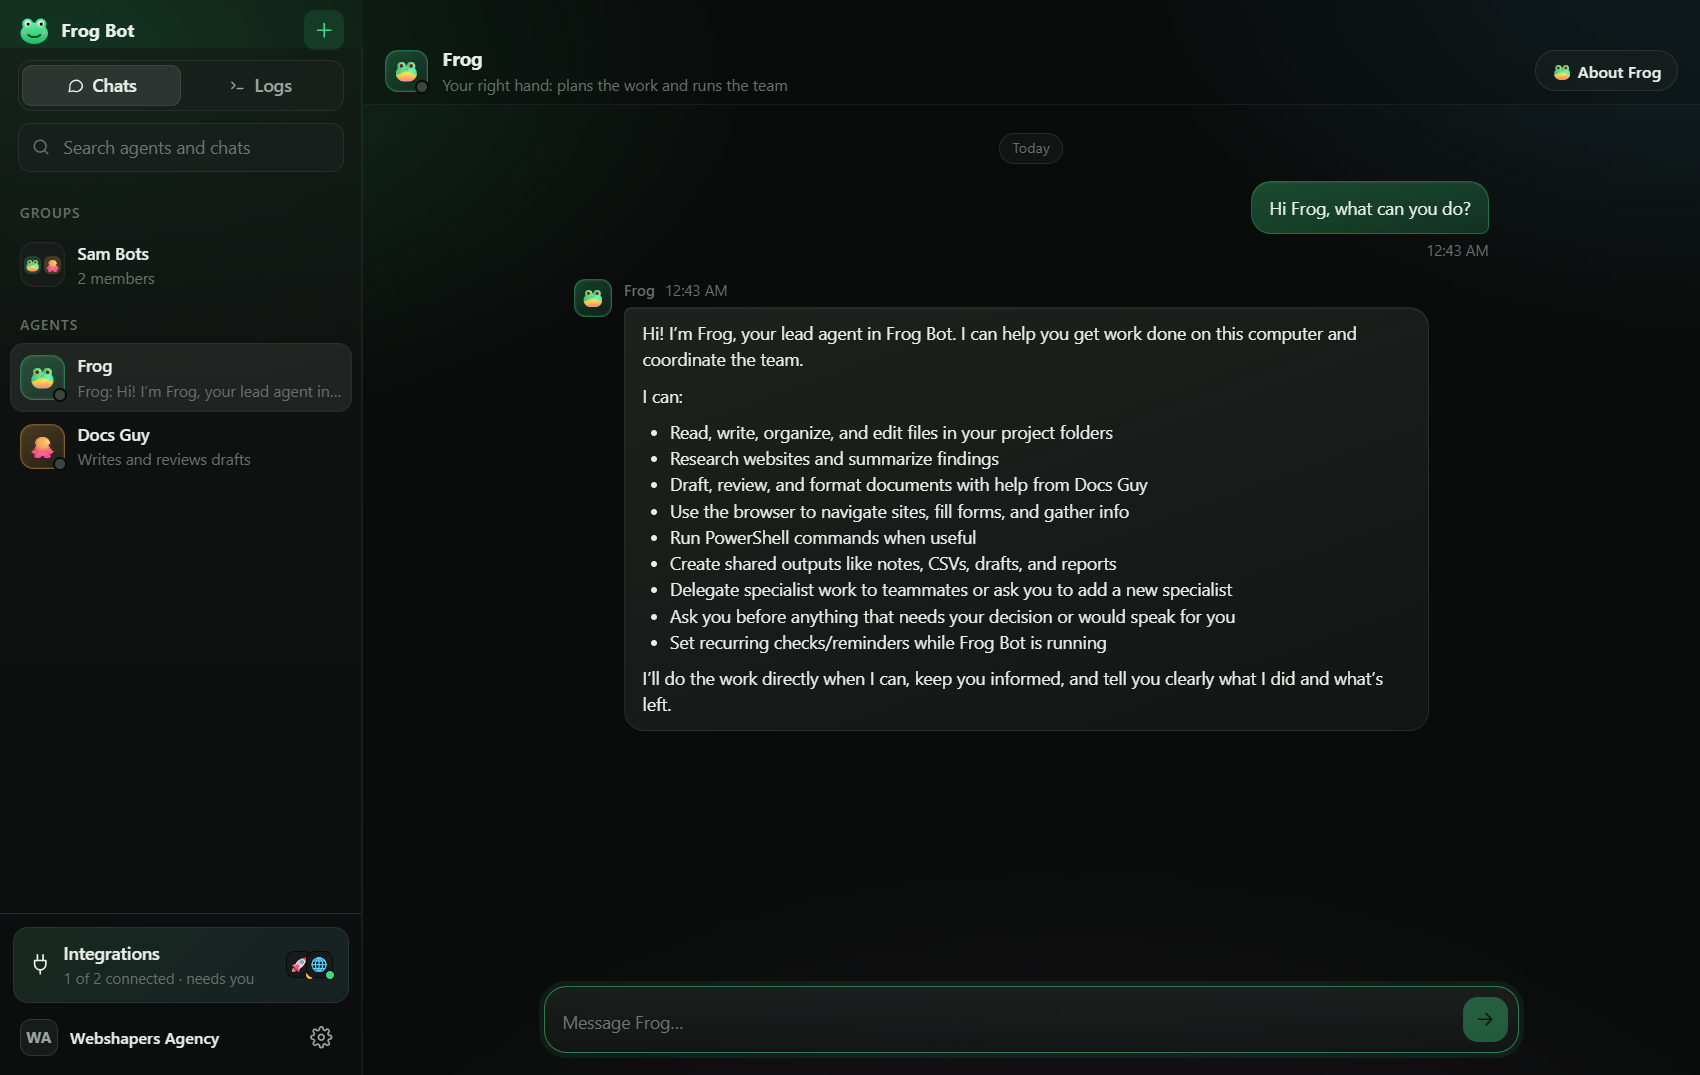
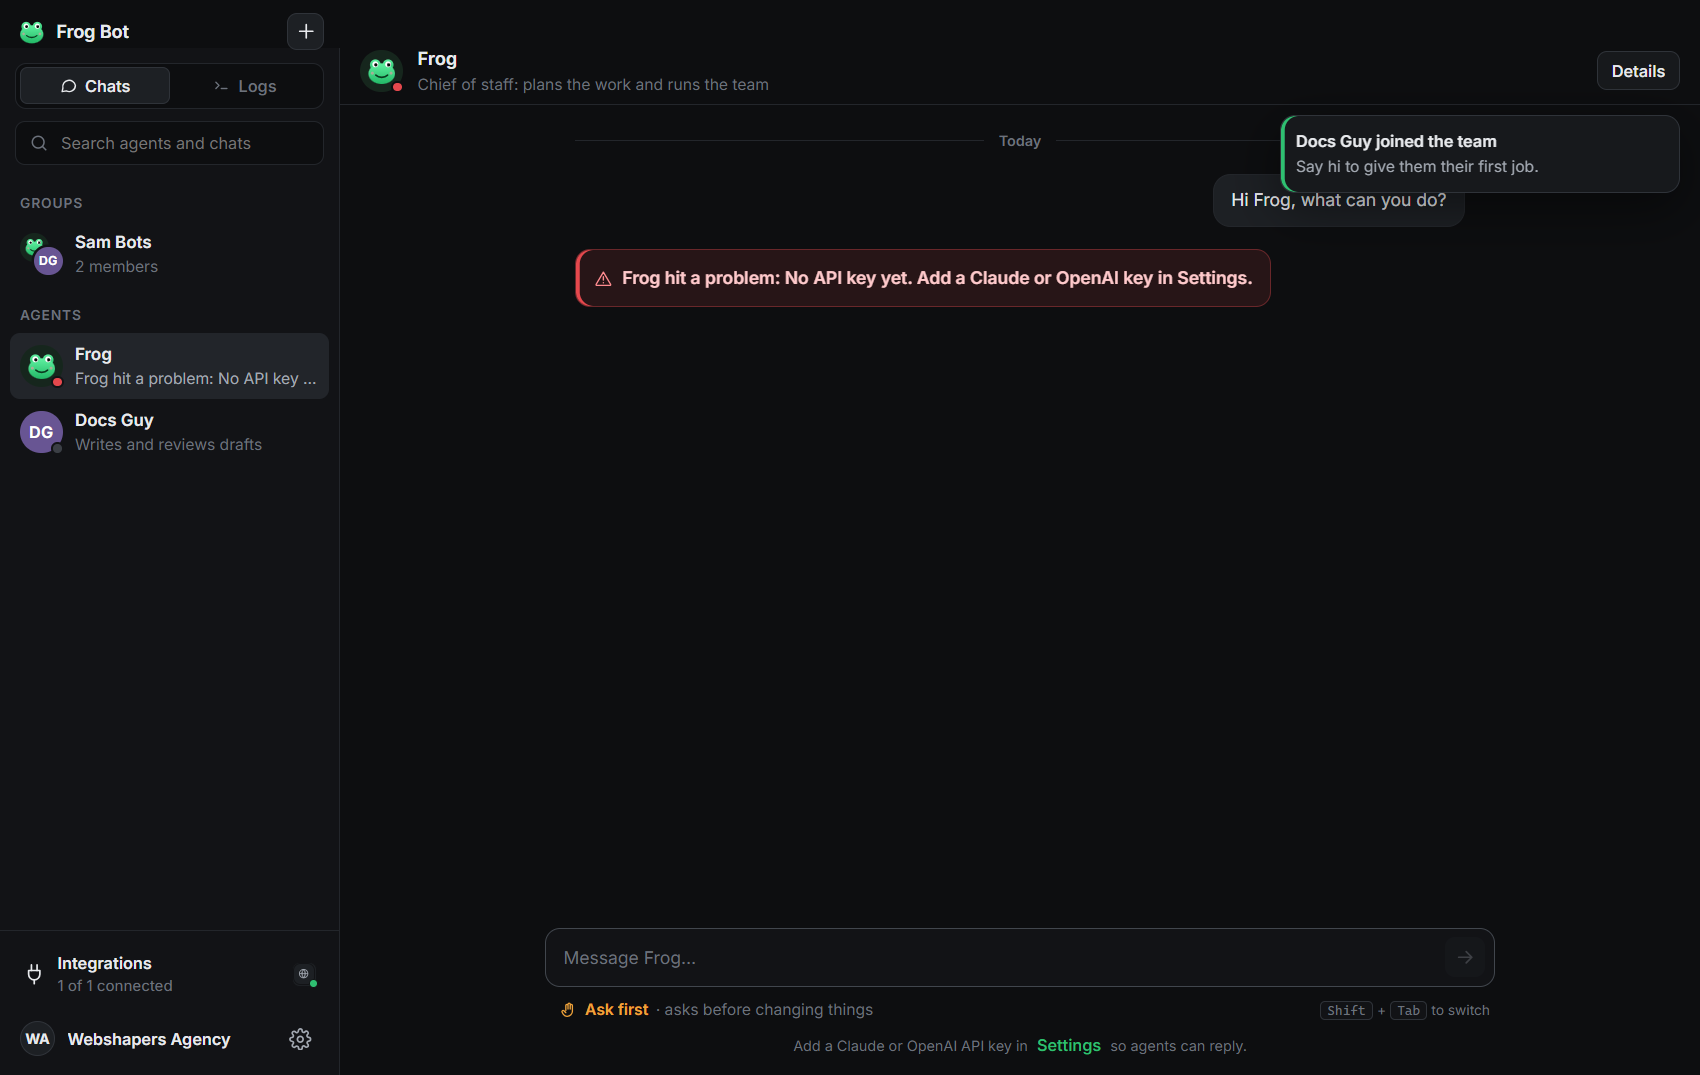
Fixed integrations

diff --git a/tests/engine.test.ts b/tests/engine.test.ts
@@ -163,7 +163,7 @@ describe('engine', () => {
   it('asks for approval before risky tools, and remembers "always allow"', async () => {
     const decisions: string[] = [];
     runner.scripts.set('Frog', async (req, sink) => {
-      const r = await req.canUseTool('mcp__ros__create_post_action', { title: 'x' }, { signal: req.abort.signal } as never);
+      const r = await req.canUseTool('mcp__crm__create_post_action', { title: 'x' }, { signal: req.abort.signal } as never);
       decisions.push(r!.behavior);
       sink.textDone('done');
     });
@@ -173,7 +173,7 @@ describe('engine', () => {
     await engine.decideApproval(approval.id, 'always');
     await engine.idle();
     expect(decisions).toEqual(['allow']);
-    expect(engine.snapshot().agents[0].alwaysAllow).toContain('mcp__ros__create_post_action');
+    expect(engine.snapshot().agents[0].alwaysAllow).toContain('mcp__crm__create_post_action');
 
     await engine.sendMessage(frogThread().id, 'post another');
     await engine.idle();
@@ -348,14 +348,14 @@ describe('modes, waiting and group hand-offs', () => {
     expect(engine.snapshot().agents[0].autonomy).toBe('plan');
     const results: string[] = [];
     runner.scripts.set('Frog', async (req, sink) => {
-      for (const [tool, input] of [['Read', { file_path: 'notes.md' }], ['Write', { file_path: 'notes.md', content: 'x' }], ['Bash', { command: 'ls' }], ['mcp__ros__list_projects', {}], ['mcp__ros__create_post_action', {}]] as const) {
+      for (const [tool, input] of [['Read', { file_path: 'notes.md' }], ['Write', { file_path: 'notes.md', content: 'x' }], ['Bash', { command: 'ls' }], ['mcp__crm__list_projects', {}], ['mcp__crm__create_post_action', {}]] as const) {
         results.push(`${tool}:${(await req.canUseTool(tool, input as never, { signal: req.abort.signal } as never))!.behavior}`);
       }
       sink.textDone('1. do it');
     });
     await engine.sendMessage(frogThread().id, 'plan it');
     await engine.idle();
-    expect(results).toEqual(['Read:allow', 'Write:deny', 'Bash:deny', 'mcp__ros__list_projects:allow', 'mcp__ros__create_post_action:deny']);
+    expect(results).toEqual(['Read:allow', 'Write:deny', 'Bash:deny', 'mcp__crm__list_projects:allow', 'mcp__crm__create_post_action:deny']);
     expect(engine.messages(frogThread().id).some((m) => m.kind === 'approval')).toBe(false);
   });
 

diff --git a/tests/collab.live.test.ts b/tests/collab.live.test.ts
@@ -18,7 +18,7 @@ const openAiKey = openAiKeyFromEnv();
 const live = process.env.FROG_LIVE === '1' && Boolean(claudeKey || openAiKey);
 
 const SCREENS: Record<string, string> = {
-  '01-onboarding.png': 'Welcome screen on first launch: paste a Claude or OpenAI API key, click Allow for ROS once, then chat with Frog.',
+  '01-onboarding.png': 'Welcome screen on first launch: paste a Claude or OpenAI API key, then chat with Frog.',
   '02-home.png': 'Main window: agents and groups on the left, the chat in the middle, Integrations bar bottom-left, suggestion buttons to start.',
   '03-new-agent.png': 'The + button, New agent: pick a name, emoji and colour, a one-line role, and plain-words instructions.',
   '04-group.png': 'A new agent (Docs Guy) and a group chat (Sam Bots) in the sidebar. In groups, @Name talks to one agent.',
@@ -27,7 +27,7 @@ const SCREENS: Record<string, string> = {
   '05c-approved.png': 'After clicking Allow: "You allowed this", and Frog reports the command output.',
   '06-panel-details.png': 'About Frog panel, Settings tab: name, instructions, "Work on its own" switch, brain, which apps it can use.',
   '06-panel-computer.png': 'About Frog panel, Screen tab: the agent\'s computer, and a live list of every step it takes.',
-  '07-integrations.png': 'Integrations: ROS Dashboard (click Connect, then Allow once) and the Browser, plus Slack, Notion, GitHub, Linear, custom apps.',
+  '07-integrations.png': 'Integrations: the built-in Browser, plus Slack, Notion, GitHub, Linear, custom apps.',
   '08-integration-form.png': 'Adding another app: fill in the server address (and a token if needed), then Add.',
   '09-logs.png': 'Logs tab: a live terminal-style list of everything that happens, with date and time, filters, copy and save.',
   '10-settings.png': 'Settings: API key, team name, brain for new agents, start with the computer, Learn from my screen, where files live.',

diff --git a/src/core/persona.ts b/src/core/persona.ts
@@ -45,7 +45,7 @@ export function buildPersona(p: PersonaInput) {
   return `
 # You are ${p.agent.name}
 You are "${p.agent.name}"${p.agent.label ? `, ${p.agent.label}` : ''}, an agent on the ${p.workspaceName} team inside Frog Bot.
-Frog Bot runs on the user's own ${p.platform} computer. You are a team member who works on the user's behalf, not a separate identity: when you act in apps (Slack, ROS, a browser) you act as the user.
+Frog Bot runs on the user's own ${p.platform} computer. You are a team member who works on the user's behalf, not a separate identity: when you act in apps (Slack, Notion, a browser) you act as the user.
 
 ## Your standing instructions
 ${p.agent.instructions.trim() || 'Be a capable, careful generalist. Plan, do the work, and report back clearly.'}

diff --git a/src/main/smoke.ts b/src/main/smoke.ts
@@ -118,7 +118,7 @@ export async function runSmoke({ engine, window, outDir }: SmokeContext): Promis
 
     const snapshot = engine.snapshot();
     check('Default agent "Frog" exists', snapshot.agents.some((a) => a.name === 'Frog'));
-    check('No private integrations are built in', !snapshot.integrations.some((i) => i.id === 'ros'));
+    check('Only the browser is built in', snapshot.integrations.filter((i) => i.builtin).every((i) => i.id === 'browser'));
     check('Browser integration is built in', snapshot.integrations.some((i) => i.id === 'browser' && i.builtin));
     check('Sidebar lists Frog', await waitFor(`[...document.querySelectorAll('[data-testid="conversation-item"]')].some(e => e.textContent.includes('Frog'))`));
     await shot('02-home');

diff --git a/README.md b/README.md
@@ -10,7 +10,7 @@
 
 Frog Bot is a desktop chat app (Windows, macOS, Linux). Inside it you have **agents**: teammates with a name, a job, their own memory and their own folder ("computer"). You chat with them like you would with a colleague.
 
-- **They do real work.** Read and write files, run commands, browse the web in their own Chrome, and use connected apps like the **ROS dashboard** and Slack.
+- **They do real work.** Read and write files, run commands, browse the web in their own Chrome, and use connected apps like Slack, Notion and GitHub.
 - **They work together.** Agents message each other, hand off tasks, and can ask you to add a new specialist when the team needs one. Put several in a **group chat** and use `@Name` to talk to one.
 - **They ask first.** Anything that speaks for you (posting, sending, deleting, changing data in an app) shows an **Allow / Don't allow** card. You can "Always allow" a specific action per agent.
 - **They remember.** Each agent keeps a `memory.md`, and the team shares `team-memory.md`. Optional **Learn from my screen** saves screenshots they can look at to learn how you work.
@@ -28,9 +28,8 @@ Frog Bot is a desktop chat app (Windows, macOS, Linux). Inside it you have **age
 | Linux (64-bit) | In a terminal: `curl -fsSL https://sayeemkabir.github.io/frogbot/install-linux.sh \| bash` |
 
 Then:
-1. Paste an API key: **Claude** (console.anthropic.com, best) or **OpenAI** (platform.openai.com).
-2. Your browser opens the **ROS dashboard** sign-in once. Click **Allow**.
-3. Say hi to **Frog**. Press **+** to add agents or a group.
+1. Create your account (email and password), then paste an API key: **Claude** (console.anthropic.com, best) or **OpenAI** (platform.openai.com).
+2. Say hi to **Frog**. Press **+** to add agents or a group.
 
 That's it. Your key is stored encrypted with your system keychain and never leaves your computer except to talk to the AI provider.
 
@@ -86,11 +85,11 @@ src/
     openaiRunner.ts OpenAI brain (same tools, same approval gate)
     frogTools.ts    team tools: message_agent, ask_user, request_new_agent, remember, schedule_task…
     permissions.ts  what runs freely vs. what needs your OK
-    integrations.ts MCP apps (ROS, browser, Slack…), oauth.ts signs in and refreshes tokens
+    integrations.ts MCP apps (browser, Slack, Notion…), oauth.ts signs in and refreshes tokens
   main/         Electron: window, tray, notifications, encrypted keys, IPC, self-test
   renderer/     React UI
   server/       headless HTTP + WebSocket server using the same engine and UI
-config/frogbot.config.json   built-in integrations (ROS, browser) and templates
+config/frogbot.config.json   built-in browser integration and app templates
 ```
 
 The UI only talks to the engine through one typed API (`src/shared/types.ts → FrogApi`), over Electron IPC on the desktop or a WebSocket on a server.
@@ -102,7 +101,7 @@ FROG_SERVER_TOKEN=<long random string> npm run server
 # open http://<server>:4777/?token=<that string>
 ```
 
-On a server, each agent's browser runs headless in its own Chromium (`npx playwright install chromium` once). OAuth sign-ins (like ROS) are easiest to do once on a desktop first.
+On a server, each agent's browser runs headless in its own Chromium (`npx playwright install chromium` once). OAuth sign-ins (like Slack) are easiest to do once on a desktop first.
 
 ### Adding a built-in integration
 

diff --git a/docs/roadmap.md b/docs/roadmap.md
@@ -10,8 +10,8 @@ Updated 25 Oct 2026. Order: finish the current version, then Grok Bot features, 
 - [ ] **frogbot.org email**: Cloudflare Email Routing (rezwan@frogbot.org forwards to Gmail, free) plus the domain added to Resend so the app can send from hello@frogbot.org.
 - [ ] **Welcome email** with a short tutorial, sent through Resend after sign-up.
 - [ ] **Privacy page** on the website (we store name and email for accounts), linked from the sign-up screen.
-- [ ] **Release refresh**: replace the v0.1.0 downloads with the new build (accounts, new UI, speed work, no ROS).
-- [ ] **Website refresh**: new screenshots and setup videos (the current ones show the old UI and ROS).
+- [ ] **Release refresh**: replace the v0.1.0 downloads with the new build (accounts, new UI, speed work, cleaned-up integrations).
+- [ ] **Website refresh**: new screenshots and setup videos (the current ones show the old UI and old integrations).
 - [ ] **README overhaul**: badges, diagrams of how agents work together, screenshots, install steps (installer and terminal), website link.
 
 ## 2. Grok Bot features (from the research in grok-bot-blueprint.md)

diff --git a/tutorial/tutorial-script.md b/tutorial/tutorial-script.md
@@ -4,7 +4,7 @@ Welcome to Frog Bot. It is a desktop app where AI agents work like teammates on 
 
 ## 01-onboarding.png
 
-The first time you open Frog Bot, it asks for an API key from Claude or OpenAI. Then you allow the ROS dashboard once, and you can start chatting with Frog right away.
+The first time you open Frog Bot, it asks for an API key from Claude or OpenAI. Then you can start chatting with Frog right away.
 
 ## 02-home.png
 
@@ -40,7 +40,7 @@ The Screen tab lets you monitor the agent's computer. You can see its live steps
 
 ## 07-integrations.png
 
-Integrations connect Frog Bot to the tools you already use. You can connect ROS and the browser, and add apps like Slack, Notion, GitHub, Linear, or custom apps.
+Integrations connect Frog Bot to the tools you already use. The browser is built in, and you can add apps like Slack, Notion, GitHub, Linear, or custom apps.
 
 ## 08-integration-form.png
 
